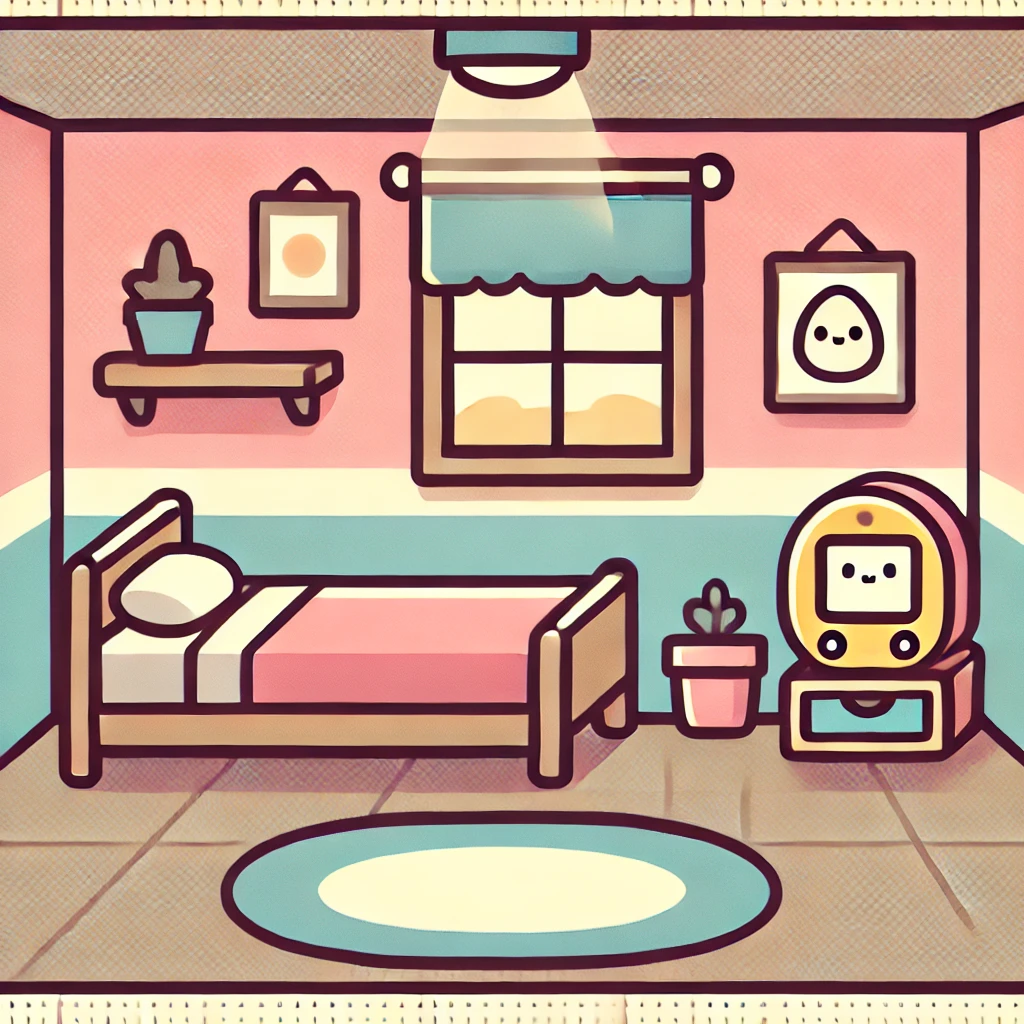
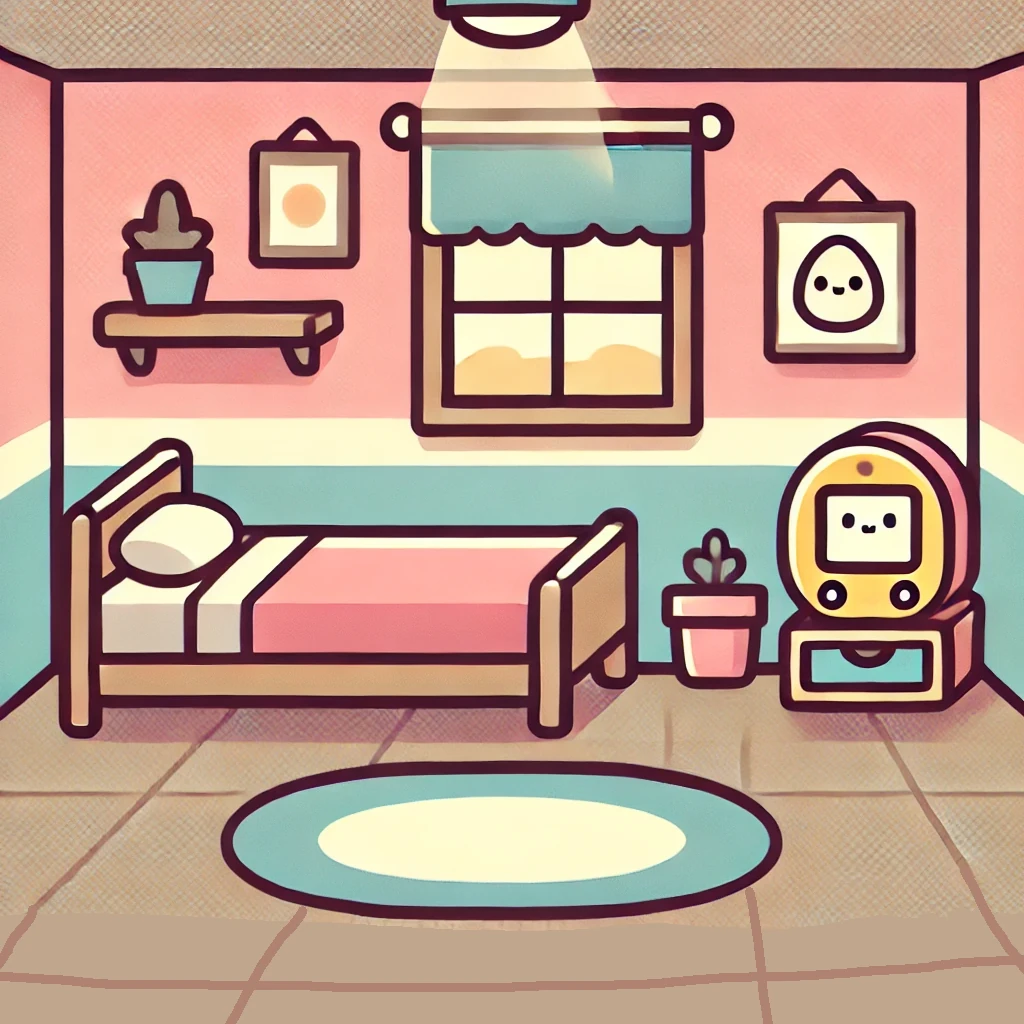
update backgrounds to fit the character better

diff --git a/packages/ui/src/components/Background/index.tsx b/packages/ui/src/components/Background/index.tsx
@@ -1,8 +1,8 @@
 import React, { ReactNode, useEffect, useState } from 'react';
 import styled from 'styled-components';
-import bedroom from '../../assets/backgrounds/bedroom_new.webp';
-import kitchen from '../../assets/backgrounds/kitchen_new.webp';
-import livingroom from '../../assets/backgrounds/livingroom_new.webp';
+import bedroom from '../../assets/backgrounds/bedroom.webp';
+import kitchen from '../../assets/backgrounds/kitchen.webp';
+import livingroom from '../../assets/backgrounds/livingroom.webp';
 import { screenHeight } from '../../constants/config';
 
 const StyledImage = styled.img<{ src: string }>`
